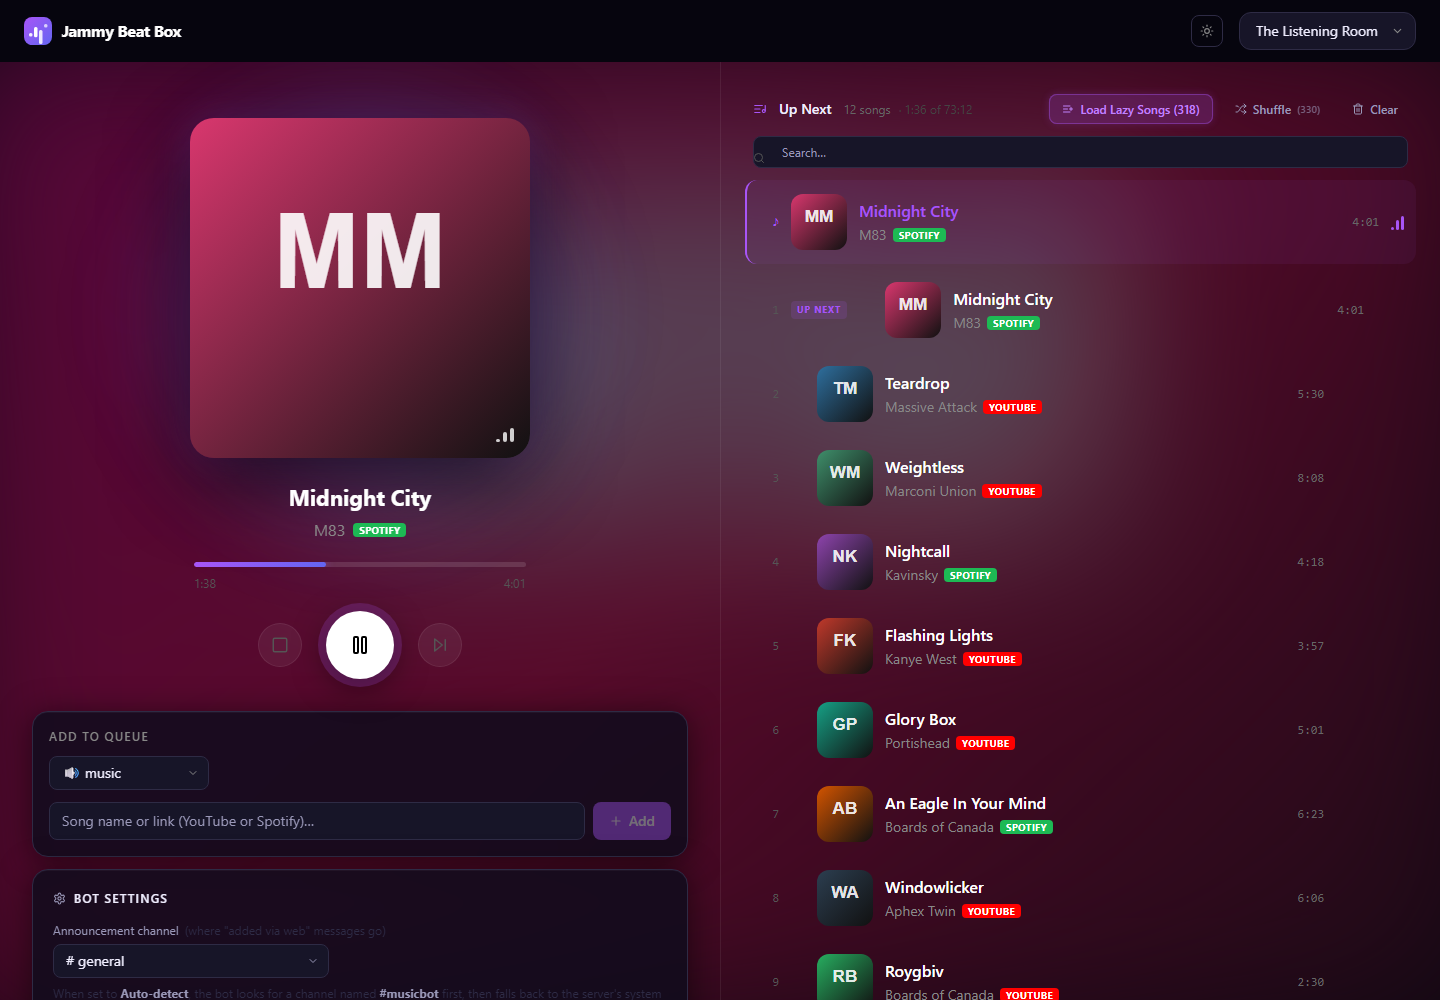
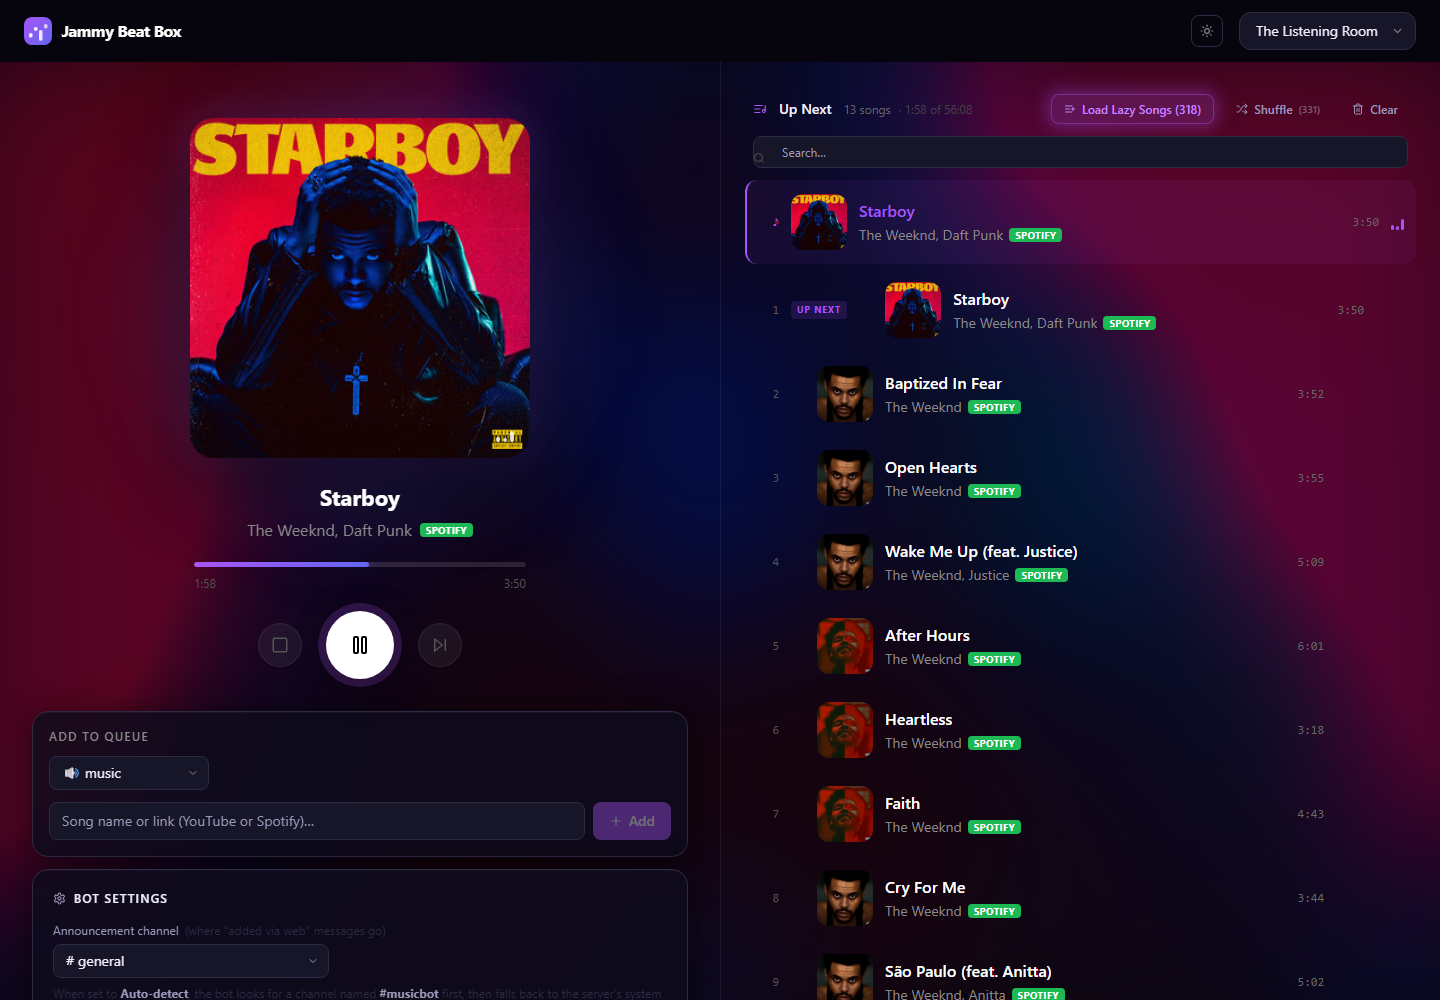
docs: screenshot a real playlist, and drop the phone shot
The placeholder initials looked nothing like the product. Shots now run
against a real Spotify playlist with the album art the app actually
resolves, which is the whole point of the Deezer backfill.

diff --git a/README.md b/README.md
@@ -15,18 +15,11 @@
   <img src="docs/dashboard.png" alt="The dashboard, with now playing on the left and a reorderable queue on the right" width="960">
 </p>
 
-<table>
-<tr>
-<td width="62%"><img src="docs/login.png" alt="The dashboard login screen"></td>
-<td width="38%"><img src="docs/mobile.png" alt="The dashboard on a phone, with now playing stacked above the queue"></td>
-</tr>
-<tr>
-<td align="center"><sub>One password, no Discord OAuth round trip.</sub></td>
-<td align="center"><sub>Stacks on a phone.</sub></td>
-</tr>
-</table>
+<p align="center">
+  <img src="docs/login.png" alt="The dashboard login screen" width="720">
+</p>
 
-<p align="center"><sub>Tracks shown are placeholder data, not a real queue.</sub></p>
+<p align="center"><sub>One password, no Discord OAuth round trip. The layout stacks on a phone.</sub></p>
 
 ---
 
